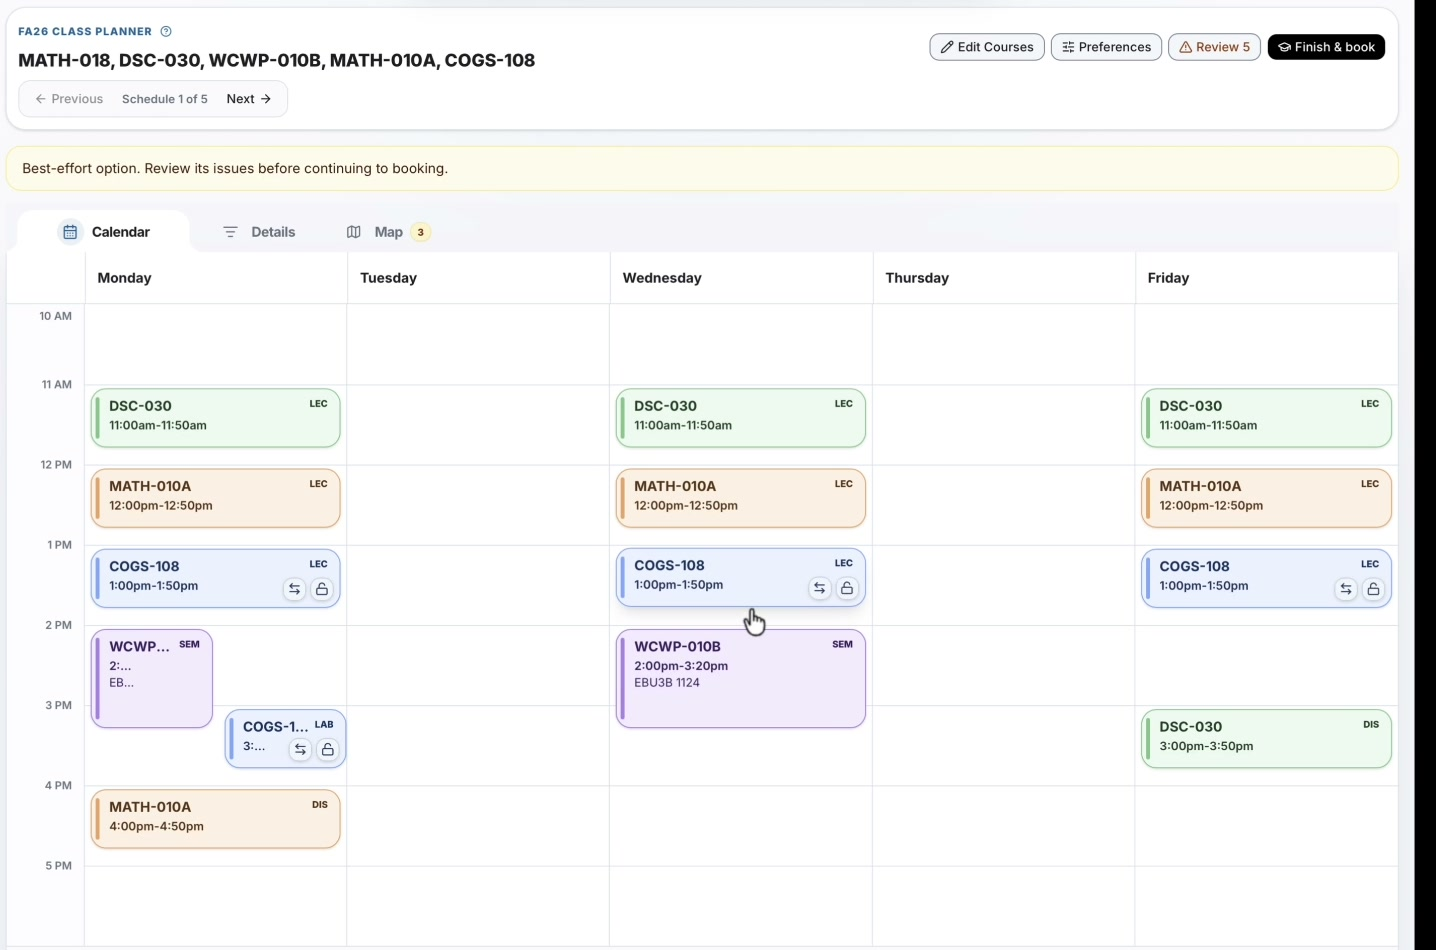
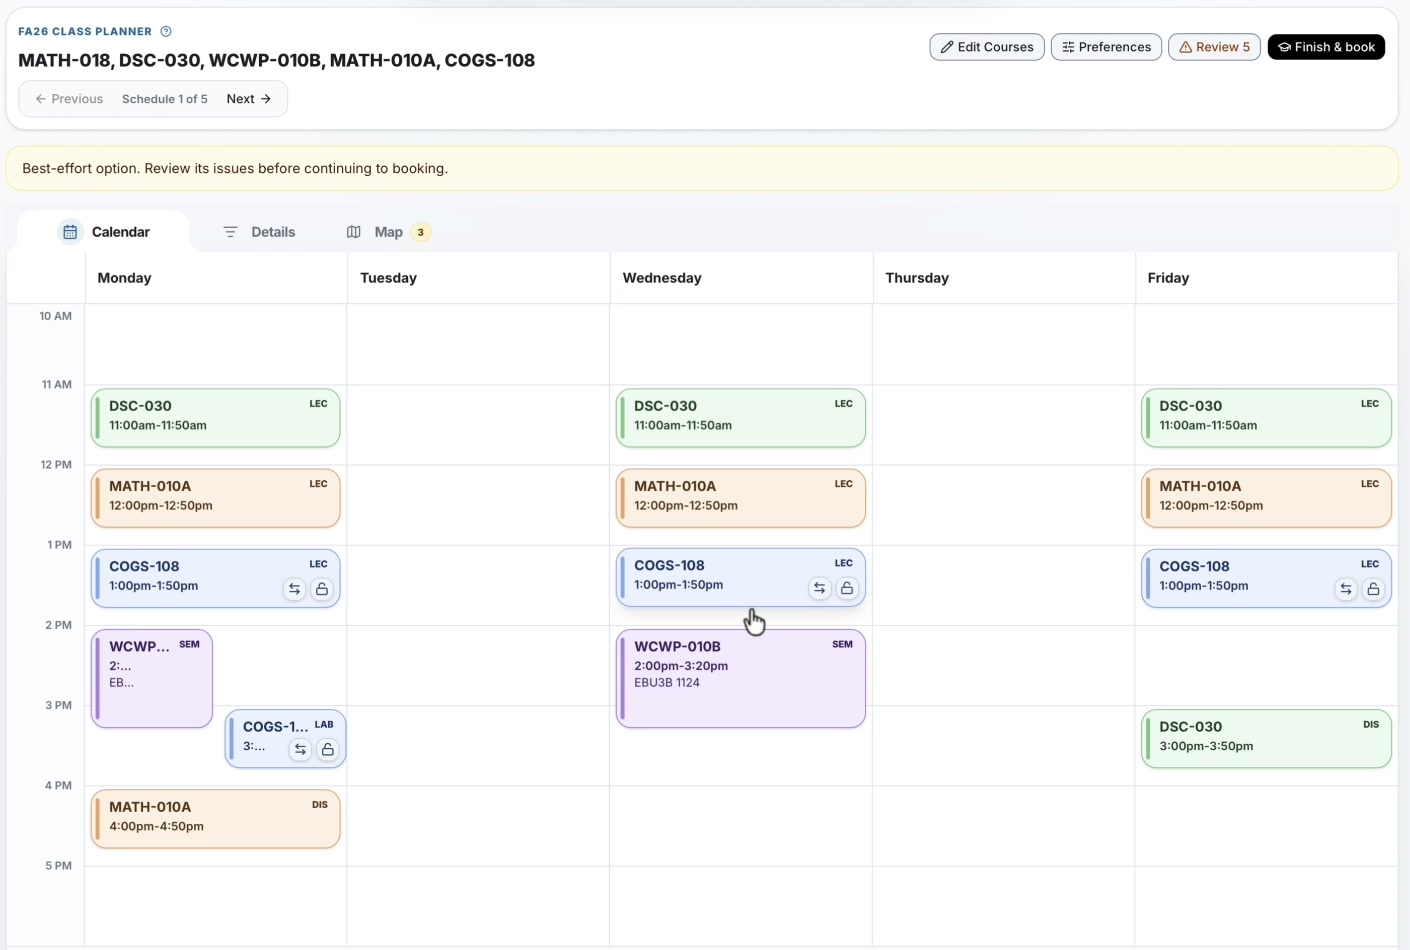
Trim compare image edge

diff --git a/index.html b/index.html
@@ -340,7 +340,7 @@
                 height="950"
                 loading="lazy"
                 src="assets/img/planner-compare-schedule.jpg"
-                width="1436"
+                width="1410"
               >
             </section>
             <figcaption>
